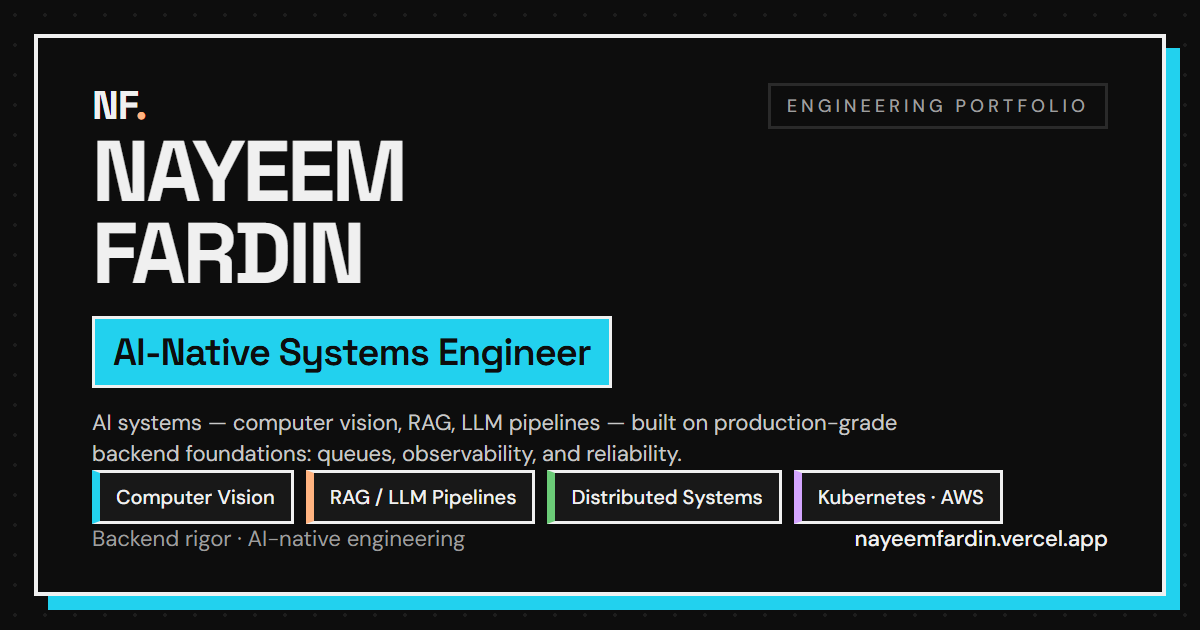
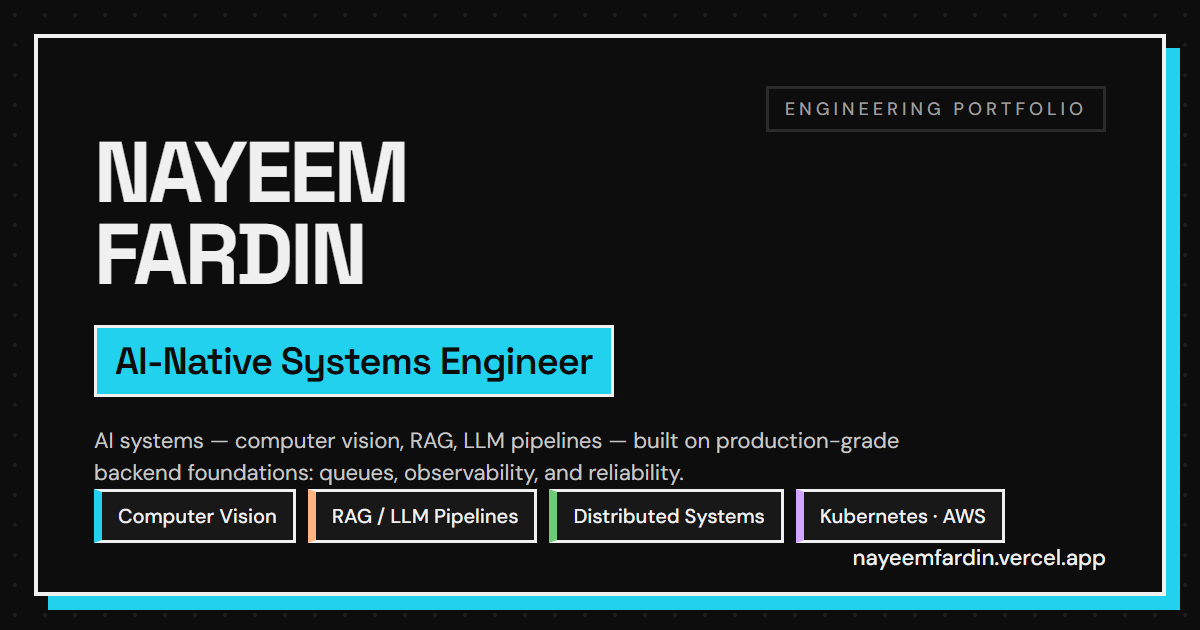
refine: clean up OG card layout
Remove the NF logo and the Backend-rigor footer line, then redistribute the
reclaimed space so the name, title bar, tagline, and chips no longer crowd each
other. Right-align the eyebrow and URL.

Changed region(s): [[0.0617, 0.4825, 0.925, 0.9048], [0.0617, 0.1206, 0.3392, 0.4524], [0.6167, 0.1206, 0.925, 0.2111]]

diff --git a/og-card.html b/og-card.html
@@ -44,7 +44,7 @@
       border: 4px solid #F0F0F0;
       box-shadow: 14px 14px 0 #22D1EE;
       background: #0D0D0D;
-      padding: 42px 54px;
+      padding: 48px 56px;
       display: flex;
       flex-direction: column;
       justify-content: space-between;
@@ -54,17 +54,7 @@
     .top {
       display: flex;
       align-items: center;
-      justify-content: space-between;
-    }
-
-    .logo {
-      font-size: 40px;
-      font-weight: 700;
-      letter-spacing: -1px;
-    }
-
-    .logo .dot {
-      color: #FFB380;
+      justify-content: flex-end;
     }
 
     .eyebrow {
@@ -95,7 +85,7 @@
       font-weight: 600;
       letter-spacing: -1px;
       padding: 9px 18px;
-      margin-top: 22px;
+      margin-top: 30px;
       border: 3px solid #F0F0F0;
       box-shadow: 6px 6px 0 #0D0D0D;
     }
@@ -104,9 +94,9 @@
       font-family: 'DM Sans', sans-serif;
       font-size: 22px;
       color: #C8C8C8;
-      margin-top: 20px;
+      margin-top: 28px;
       max-width: 880px;
-      line-height: 1.4;
+      line-height: 1.45;
     }
 
     /* ---- Chips ---- */
@@ -136,7 +126,7 @@
     .footer {
       display: flex;
       align-items: center;
-      justify-content: space-between;
+      justify-content: flex-end;
       font-family: 'DM Sans', sans-serif;
       font-size: 22px;
       color: #9E9E9E;
@@ -152,7 +142,6 @@
 <body>
   <div class="frame">
     <div class="top">
-      <div class="logo">NF<span class="dot">.</span></div>
       <div class="eyebrow">Engineering Portfolio</div>
     </div>
 
@@ -171,7 +160,6 @@
     </div>
 
     <div class="footer">
-      <span>Backend rigor · AI-native engineering</span>
       <span class="url">nayeemfardin.vercel.app</span>
     </div>
   </div>
